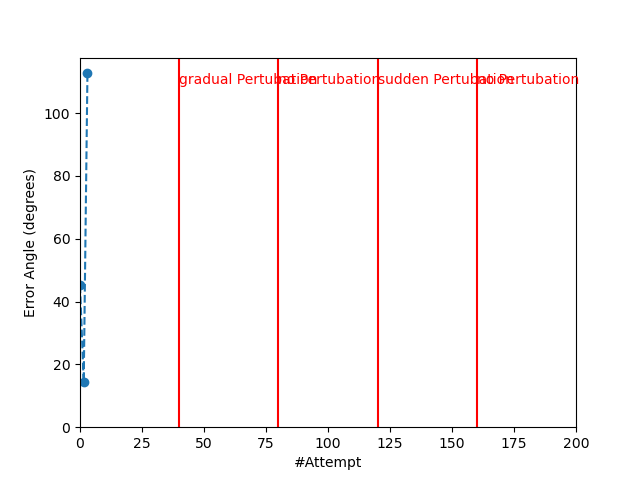
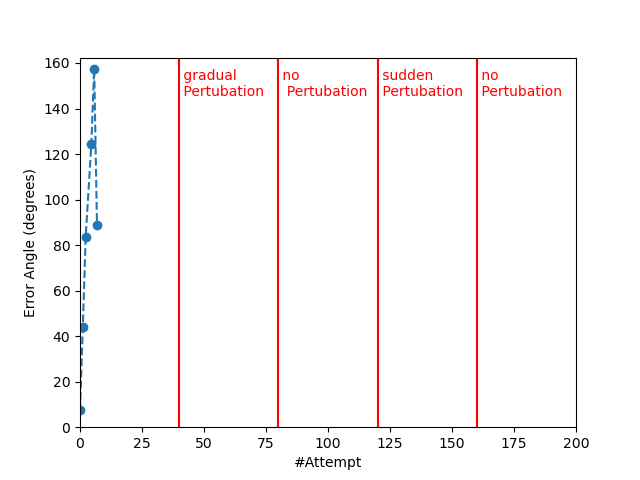
update nanmax

Changed region(s): [[0.0625, 0.125, 0.1562, 0.8125], [0.2812, 0.125, 0.9062, 0.2188], [0.125, 0.8438, 0.1562, 0.875]]

diff --git a/HW_MS1/reaching-task-ex1.py b/HW_MS1/reaching-task-ex1.py
@@ -187,6 +187,7 @@ while running:
         targetY = HEIGHT / 2 + TARGET_RADIUS
 
         error_angle = calculate_angle(START_POSITION, circle_pos) + np.pi/2
+    
         if error_angle > np.pi:
            error_angle =  (2*np.pi) - error_angle
         error_angle = np.rad2deg(error_angle)
@@ -194,6 +195,7 @@ while running:
         if (move_faster):
             error_angle = np.nan
         error_angles.append(error_angle)
+
 
     # Check if player moved to the center and generate new target
     if not new_target and at_start_position_and_generate_target(mouse_pos):
@@ -245,8 +247,9 @@ while running:
 
 # Quit Pygame
 pygame.quit()
-pertubations = ['gradual Pertubation', 'no Pertubation', 'sudden Pertubation', 'no Pertubation']
+pertubations = [' gradual \n Pertubation', ' no \n  Pertubation', ' sudden \n Pertubation', ' no \n Pertubation']
 print(error_angles)
+
 ## TASK 2, CALCULATE, PLOT AND SAVE ERRORS from error_angles
 error_angles = np.array(error_angles)
 att_nr=np.linspace(0,len(error_angles),len(error_angles))
@@ -257,10 +260,10 @@ plt.scatter(att_nr,error_angles)
 plt.xlabel('#Attempt')
 plt.ylabel('Error Angle (degrees)')
 plt.xlim(0,200)
-plt.ylim(0, np.max(error_angles+5))
+plt.ylim(0, np.nanmax(error_angles+5))
 for change in range(len(DESIGN_CHANGE)):
     plt.axvline(x=DESIGN_CHANGE[change], color='red')
-    plt.text(DESIGN_CHANGE[change], max(error_angles), pertubations[change], color = 'red',rotation=0, va='top')
+    plt.text(DESIGN_CHANGE[change], np.nanmax(error_angles), pertubations[change], color = 'red',rotation=0, va='top')
 
 
 plt.savefig('reaching_task_graph.png')
